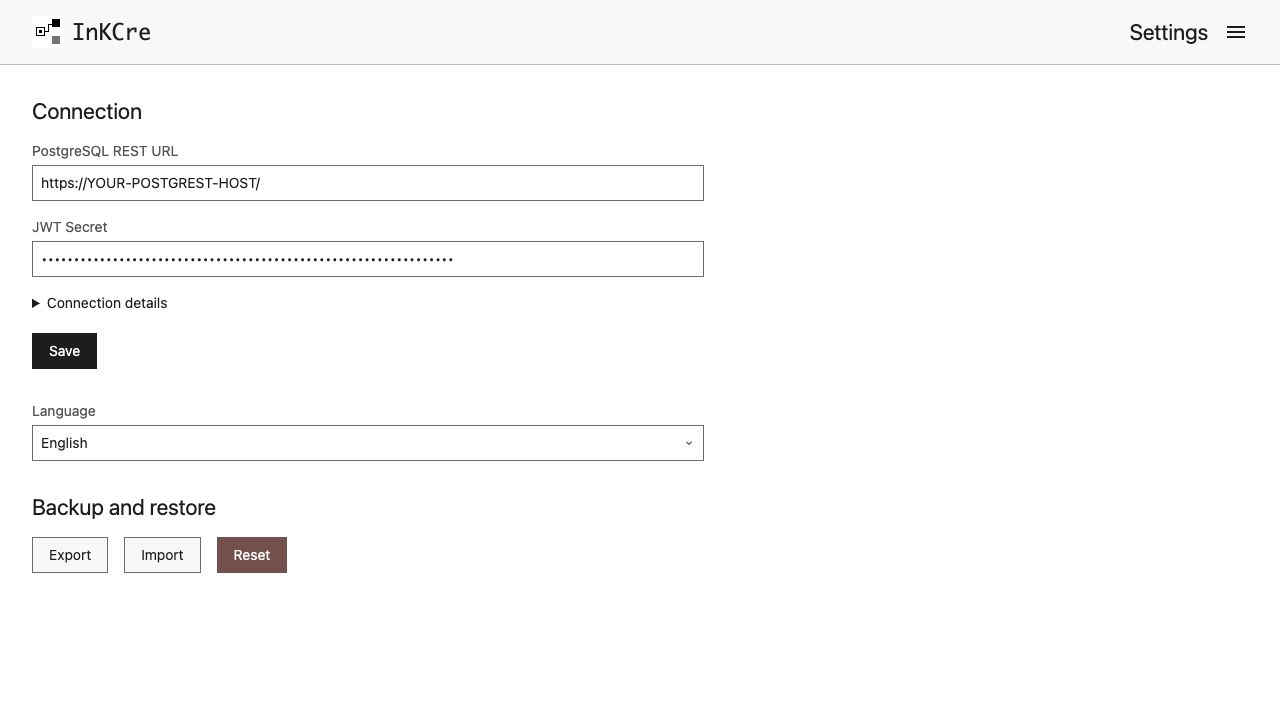
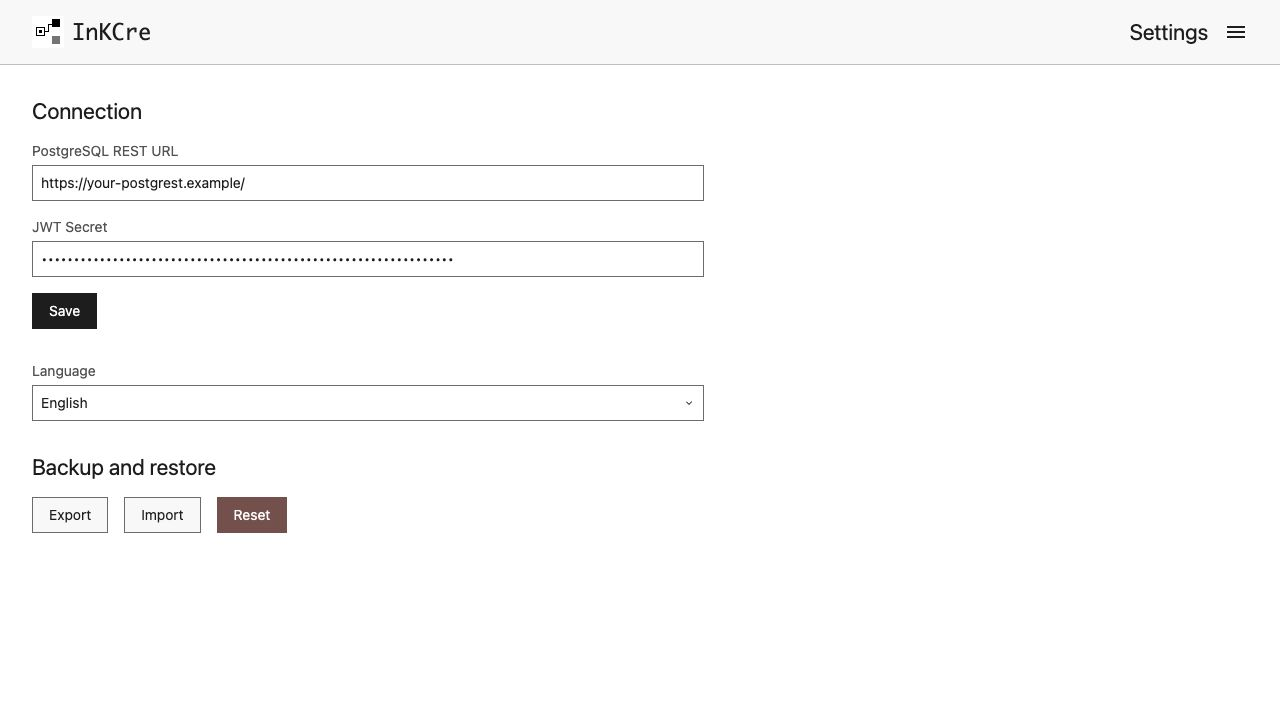
docs: 同步 Settings 隐去 Peer ID 的步骤与配图

Changed region(s): [[0.0, 0.3972, 0.25, 0.7944], [0.0625, 0.2444, 0.2188, 0.275], [0.0312, 0.7639, 0.0625, 0.7944]]

diff --git a/website/content/en/guide/connect.md b/website/content/en/guide/connect.md
@@ -21,9 +21,8 @@ the site.
    you trust: it grants full deployment authority, not a limited app session.
 3. Enter the PostgREST base URL in **PostgreSQL REST URL**, and the secret in **JWT Secret**. Do not
    substitute the Core URL for PostgREST.
-4. Select **Save** in **Connection**. The generated browser identity is available under **Connection
-   details**; do not replace it with Core's Peer ID. Language changes take effect separately,
-   without saving the connection again.
+4. Select **Save** in **Connection**. Language changes take effect separately, without saving the
+   connection again.
 5. Open **Peers**. Confirm that **This browser** and Core appear with their application versions.
    Use **Refresh** after Core starts if its state has not updated yet.
 6. To use the public Extension Registry, select **Edit Config** on **This browser**, set
